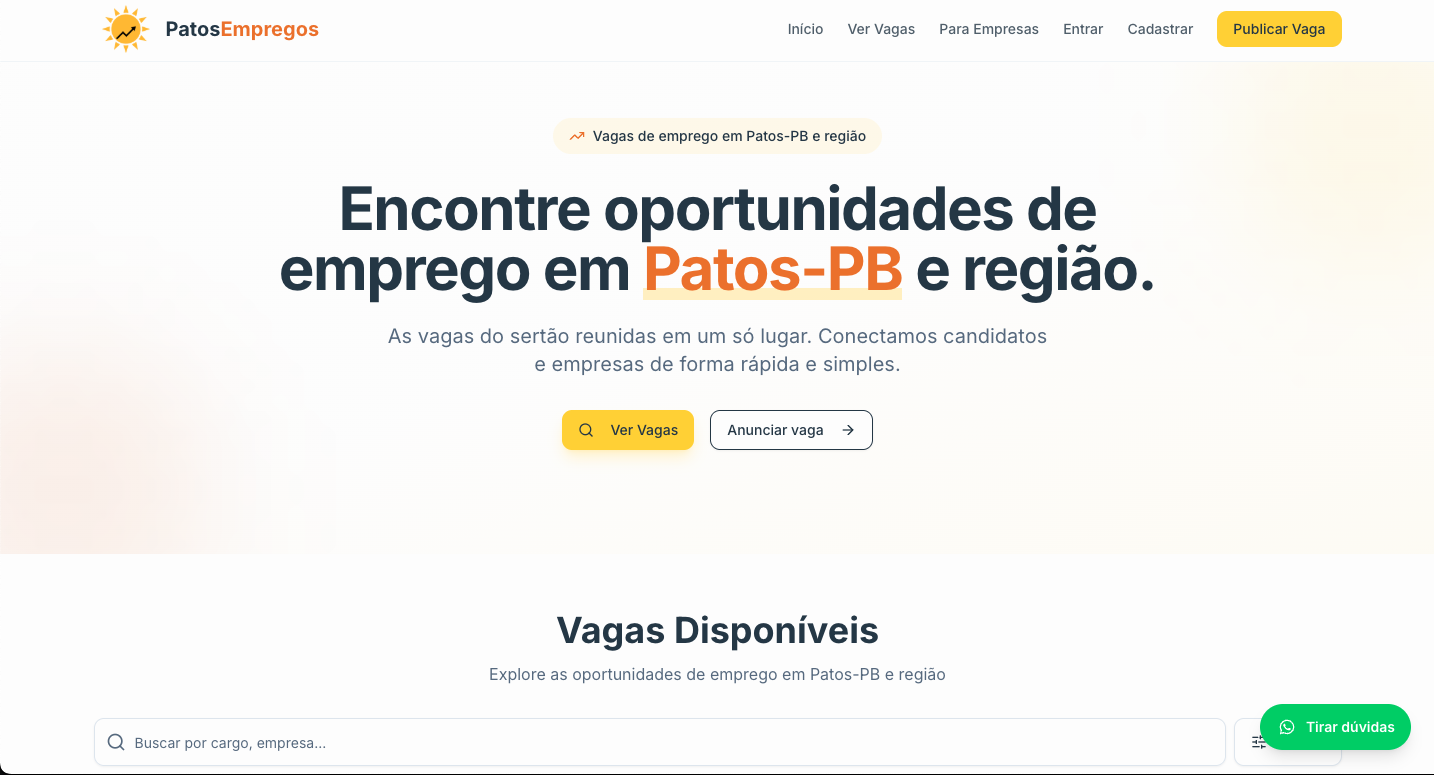
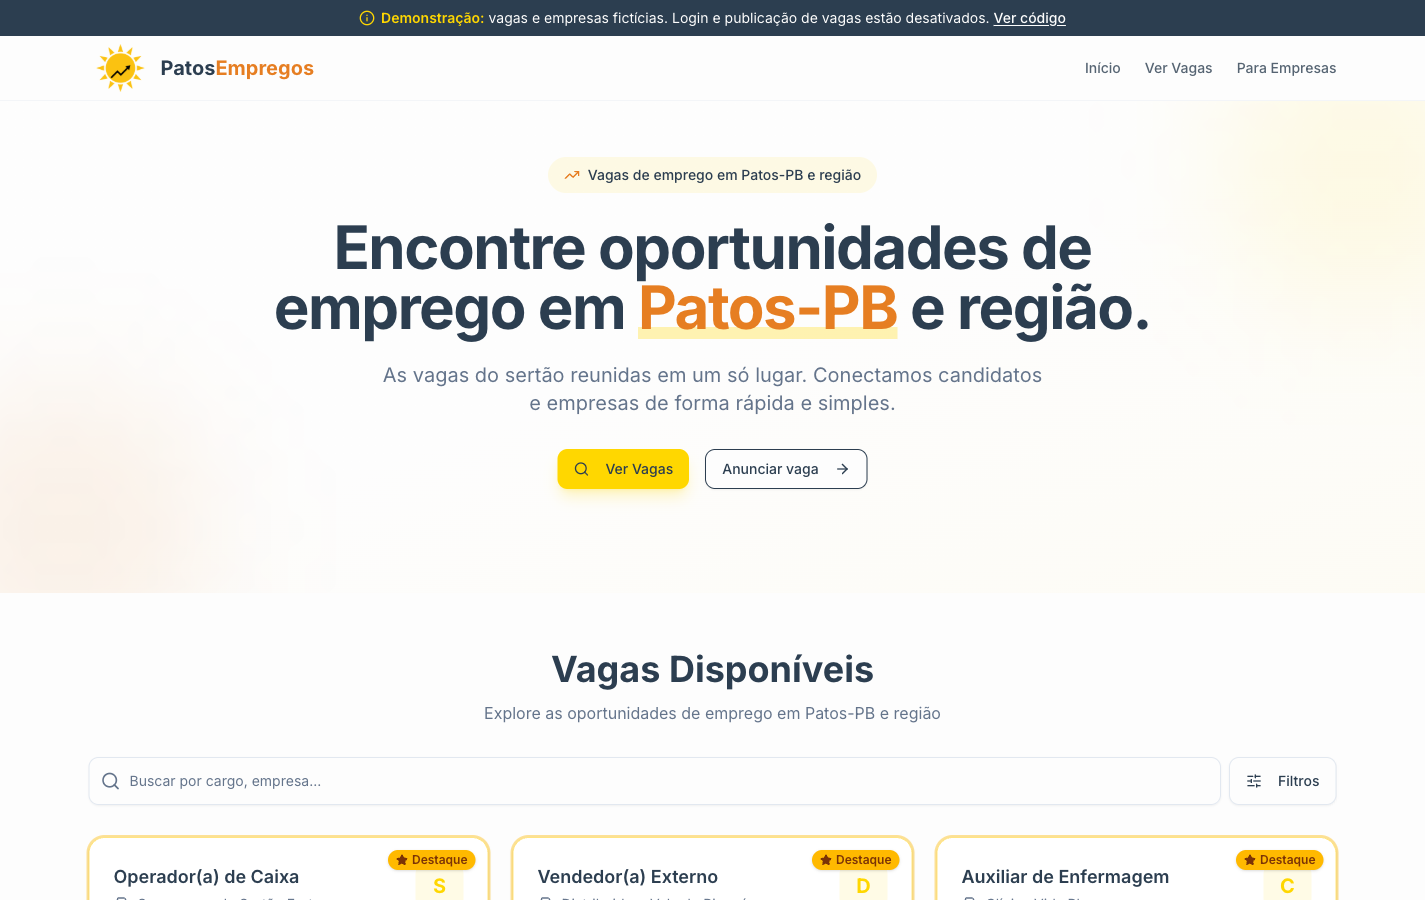
feat: link Patos Empregos demo and source
- site link now points to the demo (patosempregos.com.br is offline)
  and the card links the new public GitHub repo
- stack taken from the repo README and a fresh demo screenshot

diff --git a/src/data/projects.ts b/src/data/projects.ts
@@ -17,14 +17,15 @@ export const projects: Project[] = [
       'Next.js',
       'TypeScript',
       'TailwindCSS',
-      'PostgreSQL',
+      'Express',
       'Prisma',
-      'NextAuth.js',
+      'PostgreSQL',
       'Mercado Pago',
       'Evolution API',
-      'Coolify'
+      'Docker'
     ],
-    webLink: 'https://patosempregos.com.br'
+    webLink: 'https://patos-empregos-demo.vercel.app',
+    githubLink: 'https://github.com/andreydantasvf/patos-empregos'
   },
   {
     title: 'Racing of Legends',
